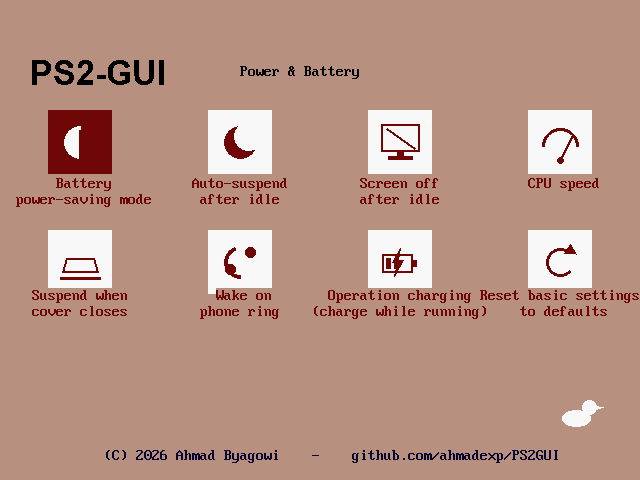
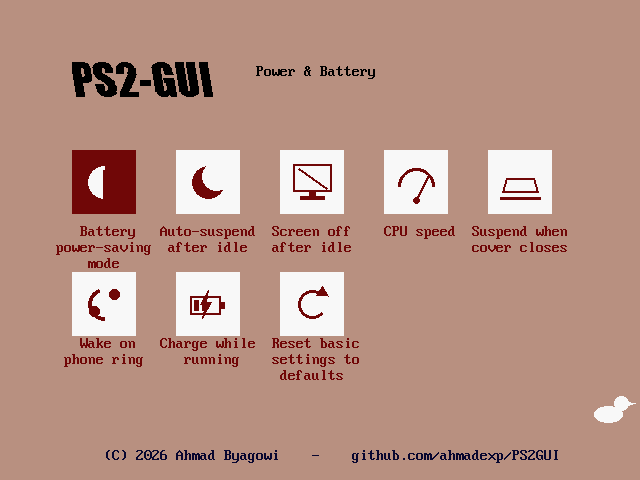
PS2GUI v1.0: exact Easy-Setup theme (5x2 grid, palette, title font)

Changed region(s): [[0.0312, 0.125, 1.0, 0.8125], [0.875, 0.8125, 1.0, 0.9062], [0.375, 0.125, 0.5938, 0.1562]]

diff --git a/Software/PS2GUI/tools/make_tiles.py b/Software/PS2GUI/tools/make_tiles.py
@@ -357,9 +357,23 @@ def load_font(sz):
             pass
     return ImageFont.load_default()
 
-f = load_font(34)
-tmp = Image.new("L", (400, 60), 255); td = ImageDraw.Draw(tmp)
-td.text((2, 2), "PS2-GUI", font=f, fill=0)
+# the Easy-Setup title is a heavy, condensed, slightly right-leaning face -> Impact + a small shear
+def load_title_font(sz):
+    for p in ["/System/Library/Fonts/Supplemental/Impact.ttf",
+              "/Library/Fonts/Impact.ttf",
+              "/System/Library/Fonts/Supplemental/Arial Narrow Bold.ttf"]:
+        try:
+            return ImageFont.truetype(p, sz)
+        except Exception:
+            pass
+    return load_font(sz)
+
+f = load_title_font(44)
+tmp = Image.new("L", (460, 72), 255); td = ImageDraw.Draw(tmp)
+td.text((6, 6), "PS2-GUI", font=f, fill=0)
+H = tmp.height
+sh = 0.17                       # right-leaning oblique like the Easy-Setup lettering
+tmp = tmp.transform(tmp.size, Image.AFFINE, (1, -sh, sh * H, 0, 1, 0), fillcolor=255)
 bb = tmp.point(lambda v: 255 if v < 128 else 0).getbbox()
 title = tmp.crop(bb)
 tw = ((title.width + 15) // 16) * 16

diff --git a/Software/PS2GUI/README.md b/Software/PS2GUI/README.md
@@ -1,16 +1,17 @@
 # PS2GUI
 ## A *graphical* system manager for the IBM PalmTop PC110
 
-*Version 0.9 · by Ahmad Byagowi*
+*Version 1.0 · by Ahmad Byagowi*
 
 A GUI fork of [PS2TUI](https://github.com/ahmadexp/PS2TUI) that reproduces the PC110's own
-**IBM Easy-Setup** — the mauve desktop, the white icon tiles with dark-red pixel-art, the stylized
-title, the little duck — as a real **icon grid**, running entirely in **VGA mode 12h (640×480×16)**.
+**IBM Easy-Setup** skin — the exact mauve desktop and DAC palette, the white icon tiles in a **5×2
+grid**, the heavy condensed title lettering, the little duck — running entirely in **VGA mode 12h
+(640×480×16)**.
 
 ![PS2GUI — the main menu](screenshot.png)
 
-*The main menu is an Easy-Setup icon grid: one tile per top-level category. The selected tile is
-inverted (dark-red), exactly like the real Easy-Setup.*
+*The main menu is an Easy-Setup icon grid: a 5×2 layout, one tile per top-level category, at the same
+tile positions and colours as the real Easy-Setup. The selected tile is inverted (dark-red).*
 
 ### A true Easy-Setup icon grid, with a hand-drawn icon for every item
 
@@ -29,13 +30,20 @@ The menus are **icon grids**, just like the machine's Easy-Setup:
   icon). Move with the **arrow keys** in two dimensions.
 - **Value pickers** (High / Medium / Low, COM1 / COM2, …) are a short chooser list.
 
+The layout matches Easy-Setup exactly: a **5×2 grid** at the same tile pitch (tiles at x = 72 + col·104,
+y = 150 + row·122), the five-colour DAC palette lifted pixel-for-pixel from a real Easy-Setup capture,
+and the title rendered in a heavy, condensed, right-leaning face (Impact + a small oblique shear) to
+mirror the "Easy-Setup" lettering. Long labels word-wrap to up to three ≤12-char lines so they never
+spill into neighbouring tiles.
+
 The tile artwork — ~50 detailed 48×48 icons, the "PS2-GUI" title and the duck — is generated by
 `tools/make_tiles.py` into `TILES.INC` (`cat_tile[]` maps categories → icons, `row_icon[]` maps every
 item → its icon). Everything is drawn in mode 12h on the mauve Easy-Setup desktop; there is **no
 text-mode menu** anywhere.
 
-*(v0.6 removed the old launcher + PS2TUI text menu; v0.7 was a transitional list-with-icons; v0.8 made
-it a true icon grid; v0.9 gives every item its own creative icon.)*
+*(v0.6 removed the old launcher + PS2TUI text menu; v0.7 list-with-icons; v0.8 a true icon grid; v0.9
+a creative icon per item; v1.0 matches the Easy-Setup theme exactly — 5×2 grid, tile positions,
+palette and title lettering.)*
 
 | Screen | |
 |---|---|
